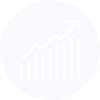
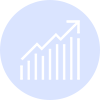
5/25

diff --git a/css/index.css b/css/index.css
@@ -178,7 +178,7 @@ header{
 #skill_list2 img{width:55px; height:55px;}
 
 #left-bottom{
-  height:50%;
+  height:50%; 
   padding:10px 0 0 10px;
   line-height:2.5;
   font-family: 'RIDIBatang';
@@ -617,6 +617,7 @@ button{background-color: none;}
   width:60%;
   display:grid;
   grid-template-columns: repeat(2,1fr);
+  gap:12px;
 }
 .pop-up-img div img{width:100%;}
 .label{
@@ -630,7 +631,7 @@ button{background-color: none;}
 }
 #label_a{background-color:rgb(13, 13, 122);}
 .traffic{
-  width:90%;
+  width:97%;
    margin:0 auto;
   border:1px solid #000;
 }
@@ -650,7 +651,7 @@ button{background-color: none;}
 }
 .traffic_cont:last-child{border:none;}
 
-.traffic_d_1{display:flex; gap:10px;}
+.traffic_d_1{display:flex; justify-content:center; gap:10px;}
 .traffic_d_1 img{width:30px; height:30px;}
 .traffic_d_2 img{
   width:30px;
@@ -672,6 +673,7 @@ button{background-color: none;}
 
 @media (max-width:1430px) {
   #header_list{width:50%;}
+  .traffic_cont{padding:10px 12px; }
 }
 @media (max-width:768px) {
   #intro_logo{font-size:30px;}
@@ -769,7 +771,7 @@ button{background-color: none;}
   .pop-up-img div{width:100%;}
 
   .label{font-size:1.2rem; width:55px;}
-  .traffic_cont{font-size:12px; padding:0;}
+  .traffic_cont{font-size:12px; padding:0 4px;;}
   .traffic b{font-size:15px;}
   .traffic_d_1 {gap:5px;}
   .traffic_d_1 img{width:24px; height:24px;}
